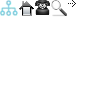
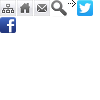
before dealing with footer

Changed region(s): [[0.0, 0.0, 0.69, 0.33], [0.75, 0.0, 0.93, 0.18], [0.0, 0.0, 0.03, 0.03]]

diff --git a/wp-content/themes/simple-catch/style.css b/wp-content/themes/simple-catch/style.css
@@ -397,6 +397,7 @@ a.readmore:hover {
 	background:url(images/header-bg.jpg) left bottom repeat-x;
 	padding-bottom:20px;
 	border-bottom:1px solid #ccc;
+	min-width: 1085px;
 }
 #header .top-bg, #footer {
 	background:url(images/header-top-footer-bg.jpg) repeat-x;
@@ -1522,14 +1523,17 @@ ul.default-wp-page li.next a {
 	float:right;
 	display:block;
 }
+
 /* =Footer
 -------------------------------------------------------------- */
 #footer {
-	border-top:6px solid #ccc;
+	border-top:2px solid #ccc;
 	height:60px;
 	color:#666;
 	font-size:12px;
 	padding-top:30px;
+	min-width: 1085px;
+
 }
 #footer span {
 	color:#999;
@@ -1663,25 +1667,32 @@ img#wpstats {
 	/*-webkit-border-radius: 3px;*/
 	/*border-radius: 3px;*/
 }
-
+/*{*/
+	/*background: #fef60b;*/
+	/*background: #2dae18;*/
+	/*background: #f44051;*/
+	/*background: #7740f4;*/
+	/*background: #f4a640;*/
+	/*background: #fef60b;*/
+/*}*/
 .category-yellow :hover {
-    background: #ffff99;
+    background: #fef60b;
 }
 
 .category-orange :hover {
-    background: #ffcc00;
+    background: #f4a640;
 }
 
 .category-green-light :hover {
-    background: #99cc99;
+    background: #2dae18;
 }
 
 .category-green-bright :hover {
-    background: #ccff99;
+    background: #f44051;
 }
 
 .category-white :hover {
-    background: #eee;
+    background: #7740f4;
 }
 
 .addthis_toolbox {
@@ -1721,7 +1732,19 @@ img#wpstats {
 .icons {
 	background: url('images/icons.png') no-repeat;
 }
-
+.facebook {
+	float: left;
+	height: 16px; width: 16px;
+	background-position: 0px -17px;
+	display: block;
+}
+.twitter {
+	float: left;
+	height: 16px; width: 16px;
+	background-position: -77px 0px;
+	display: block;
+	margin-left: 2px;
+}
 .header-icons-container {
 	width: 100px; height: 30px; float: right;
 	/*position: relative; top: 14px; left: -261px;*/

diff --git a/Wd/widgets/Events.php b/Wd/widgets/Events.php
@@ -43,28 +43,27 @@ class Wd_Widgets_Events extends WP_Widget {
 			foreach($eventsPosts as $postId => $post) { ?>
 				<div class="page_item page-item-<?=$postId?>"><a href="http://wedigital.dev/<?=$post->post_name ?>/" class="event-title"><?=$post->post_title?></a>
 					<div class="event-content">
-						<?=mb_substr($post->post_content, 0, 200, 'UTF-8')?>
+						<?
+						$wordsAmount = Wd::get('settings')->getValue(Settings::MAX_EVENT_LENGTH_WORDS);
+						$words_array = preg_split( "/[\n\r\t ]+/", $post->post_content, $wordsAmount, PREG_SPLIT_NO_EMPTY );
+						$textRest = array_pop( $words_array );
+						$dotPos = strpos($textRest, '.');
+						$sentenceRest = $textRest;
+						if($dotPos) {
+							$sentenceRest = substr($textRest, 0, $dotPos);
+						}
+						$text = implode( ' ', $words_array );
+						$more = '<a class="readmore" href="http://wedigital.dev/' . $post->post_name . '/">Далее</a>';
+						$text = $text . $sentenceRest . '...<br />' . $more;
+						echo $text;
+						?>
 					</div>
 				</div>
 			<? }
 
 			?>
-<!--		<li class="page_item page-item-6"><a href="http://wedigital.dev/about/">About</a></li>-->
-<!--		<li class="page_item page-item-14"><a href="http://wedigital.dev/%d0%b2%d0%b0%d0%ba%d0%b0%d0%bd%d1%81%d0%b8%d0%b8/">Вакансии</a></li>-->
-<!--		<li class="page_item page-item-31"><a href="http://wedigital.dev/%d0%b8%d0%b2%d0%b5%d0%bd%d1%82%d1%8b/">Ивенты</a>-->
-<!--			<ul class="children">-->
-<!--				<li class="page_item page-item-46"><a href="http://wedigital.dev/%d0%b8%d0%b2%d0%b5%d0%bd%d1%82%d1%8b/%d0%b8%d0%b2%d0%b5%d0%bd%d1%82-1/">Ивент 1</a></li>-->
-<!--			</ul>-->
-<!--		</li>-->
 	</div>
 	</div>
-<!--	<li class="page_item page-item-6"><a href="http://wedigital.dev/about/">About</a></li>-->
-<!--	<li class="page_item page-item-14"><a href="http://wedigital.dev/%d0%b2%d0%b0%d0%ba%d0%b0%d0%bd%d1%81%d0%b8%d0%b8/">Вакансии</a></li>-->
-<!--	<li class="page_item page-item-31"><a href="http://wedigital.dev/%d0%b8%d0%b2%d0%b5%d0%bd%d1%82%d1%8b/">Ивенты</a>-->
-<!--		<ul class="children">-->
-<!--			<li class="page_item page-item-46"><a href="http://wedigital.dev/%d0%b8%d0%b2%d0%b5%d0%bd%d1%82%d1%8b/%d0%b8%d0%b2%d0%b5%d0%bd%d1%82-1/">Ивент 1</a></li>-->
-<!--		</ul>-->
-<!--	</li>-->
 		<?
 	}
 }

diff --git a/wp-includes/formatting.php b/wp-includes/formatting.php
@@ -234,7 +234,7 @@ function wpautop($pee, $br = true) {
 	$pees = preg_split('/\n\s*\n/', $pee, -1, PREG_SPLIT_NO_EMPTY);
 	$pee = '';
 	foreach ( $pees as $tinkle )
-		$pee .= '<p rel="begin-of-the-excerpt-text">' . trim($tinkle, "\n") . "</p>\n";
+		$pee .= '<p style="clear:left;" rel="begin-of-the-excerpt-text">' . trim($tinkle, "\n") . "</p>\n";
 	$pee = preg_replace('|<p>\s*</p>|', '', $pee); // under certain strange conditions it could create a P of entirely whitespace
 	$pee = preg_replace('!<p>([^<]+)</(div|address|form)>!', "<p>$1</p></$2>", $pee);
 	$pee = preg_replace('!<p>\s*(</?' . $allblocks . '[^>]*>)\s*</p>!', "$1", $pee); // don't pee all over a tag
@@ -2141,6 +2141,7 @@ function wp_trim_excerpt($text = '') {
 function wp_trim_words( $text, $num_words = 55, $more = null ) {
 	if ( null === $more )
 		$more = __( '&hellip;' );
+	$more = substr($more, 10);
 	$original_text = $text;
 	$text = wp_strip_all_tags( $text );
 	/* translators: If your word count is based on single characters (East Asian characters),
@@ -2155,9 +2156,15 @@ function wp_trim_words( $text, $num_words = 55, $more = null ) {
 		$sep = ' ';
 	}
 	if ( count( $words_array ) > $num_words ) {
+		$textRest = array_pop( $words_array );
 		array_pop( $words_array );
+		$dotPos = strpos($textRest, '.');
+		$sentenceRest = $textRest;
+		if($dotPos) {
+			$sentenceRest = substr($textRest, 0, $dotPos);
+		}
 		$text = implode( $sep, $words_array );
-		$text = $text . $more;
+		$text = $text . $sentenceRest . '...<br />' . $more;
 	} else {
 		$text = implode( $sep, $words_array );
 	}

diff --git a/wp-content/themes/simple-catch/footer.php b/wp-content/themes/simple-catch/footer.php
@@ -8,18 +8,33 @@
  */
 ?>
 	<div id="footer">
-    	<div class="layout-978">
+    	<div class="layout-978" style="float: left; min-width: 0px;">
 			<?php //Displaying footer logo ?>
             <div class="col7 copyright no-margin-left">
 				<?php if( function_exists( 'simplecatch_footerlogo' ) ) :
 						simplecatch_footerlogo(); 
 					  endif;	
-				?><?php _e( 'Copyright', 'simplecatch' ); ?> &copy; <?php echo date("Y"); ?> <span><?php bloginfo('name')?></span>. <?php _e( 'All Right Reserved.', 'simplecatch' ); ?>
+				?><?php _e( 'Copyright', 'simplecatch' ); ?> &copy; <?php echo date("Y"); ?> <span><a href="http://wedigital.by"><?php bloginfo('name')?></span></a>. <?php _e( 'All Right Reserved.', 'simplecatch' ); ?>
             </div><!-- .col7 -->
             
            <?php do_action( 'simplecatch_credits' ); ?>
             
 		</div><!-- .layout-978 -->
+		<div style="float: right; margin-right: 50px; color: #999;">
+			<div style="float: left;">
+				Мы в соцсетях:
+				<div style="clear: both;"></div>
+				<a href="facebook://asd.by" class="icons facebook" style=""></a>
+				<a href="twitter://asd.by" class="icons twitter" style=""></a>
+				<div style="clear: both;"></div>
+			</div>
+			<div style="float: left; margin-left: 8px;">
+			Электронная почта:
+			<div style="clear: both;"></div>
+				<a href="mailto://info@wedigital.by">info@wedigital.by</a>
+			<div style="clear: both;"></div>
+		</div>
+		</div>
 	</div><!-- #footer -->      
 <?php wp_footer(); ?>
 </body>

diff --git a/wp-content/themes/simple-catch/functions/simplecatch_functions.php b/wp-content/themes/simple-catch/functions/simplecatch_functions.php
@@ -700,9 +700,8 @@ function simplecatch_custom_tag_cloud() {
  */
 function simplecatch_footer() {
 ?>
-	<div class="col5 powered-by">
-		<?php _e( 'Design by:', 'simplecatch');?> <a href="<?php echo esc_url( __( 'http://catchthemes.com/', 'simplecatch' ) ); ?>" target="_blank" title="<?php esc_attr_e( 'Catch Themes', 'simplecatch' ); ?>"><?php _e( 'Catch Themes', 'simplecatch' ); ?></a> | <a href="<?php echo esc_url( __( 'http://wordpress.org/', 'simplecatch' ) ); ?>" title="<?php esc_attr_e( 'WordPress', 'simplecatch' ); ?>" rel="generator" target="_blank" ><?php printf( __( 'Proudly powered by %s.', 'simplecatch' ), 'WordPress' ); ?></a>
-  	</div><!--.col6 powered-by-->
+
+<!--.col6 powered-by-->
 
 <?php
 }
@@ -910,7 +909,7 @@ function simplecatch_loop() {
 			$fullContent = get_the_content(null, false);
 			$fullContent = apply_filters('the_content', $fullContent);
 			$fullContent = str_replace(']]>', ']]&gt;', $fullContent);
-			$contentBegin = strpos($fullContent, '<p rel="begin-of-the-excerpt-text">');
+			$contentBegin = strpos($fullContent, '<p style="clear:left;" rel="begin-of-the-excerpt-text">');
 			$content = substr($fullContent, $contentBegin);
 //			$addThis = substr($fullContent, 0, $contentBegin);
 //			echo $addThis;

diff --git a/wp-content/themes/simple-catch/content.php b/wp-content/themes/simple-catch/content.php
@@ -69,7 +69,7 @@ global $wp_object_cache;
 
 
 	                    <?php $excerpt = the_excerpt(false);
-		                    $contentBegin = strrpos($excerpt, '<p rel="begin-of-the-excerpt-text">');
+		                    $contentBegin = strrpos($excerpt, '<p style="clear:left;" rel="begin-of-the-excerpt-text">');
 		                    $content = substr($excerpt, $contentBegin);
 //		                    $addThis = substr($excerpt, 35, $contentBegin);
 //		                    echo $addThis;
@@ -79,7 +79,7 @@ global $wp_object_cache;
 		                    ?>
 		                    <div class="clear" style="height: 1px; width: 1px; "></div>
 
-		                    <div style="text-align: center; ">
+		                    <div style="text-align: right; float: right; margin: 0px 0px 0px 15px;">
 <!--			                    <a href="--><?php //the_permalink(); ?><!--" title="--><?php //printf( esc_attr__( 'Permalink to %s', 'simplecatch' ), the_title_attribute( 'echo=0' ) ); ?><!--">-->
 			                    <?
 			                    $picture = get_the_post_thumbnail( null, 'featured', '' );

diff --git a/wp-content/themes/simple-catch/search.php b/wp-content/themes/simple-catch/search.php
@@ -44,14 +44,15 @@ get_header();
 		
 	else : ?>
 		<h2><?php printf( __( 'Your search <span> "%s" </span> did not match any documents', 'simplecatch' ), get_search_query() ); ?></h2>
-		<div class="post">
-			<h5><?php _e( 'A few suggestions', 'simplecatch' ); ?></h5>
-			<ul>
-				<li><?php _e( 'Make sure all words are spelled correctly', 'simplecatch' ); ?></li>
-				<li><?php _e( 'Try different keywords', 'simplecatch' ); ?></li>
-				<li><?php _e( 'Try more general keywords', 'simplecatch' ); ?></li>
-			</ul> 
-		</div> <!-- .post -->
+<!--		<div class="post">-->
+<!--			<h5>--><?php //_e( 'A few suggestions', 'simplecatch' ); ?><!--</h5>-->
+<!--			<ul>-->
+<!--				<li>--><?php //_e( 'Make sure all words are spelled correctly', 'simplecatch' ); ?><!--</li>-->
+<!--				<li>--><?php //_e( 'Try different keywords', 'simplecatch' ); ?><!--</li>-->
+<!--				<li>--><?php //_e( 'Try more general keywords', 'simplecatch' ); ?><!--</li>-->
+<!--			</ul> -->
+<!--		</div> -->
+	<!-- .post -->
 		
 <?php endif; ?>
 

diff --git a/Wd/pages/CategoryList.php b/Wd/pages/CategoryList.php
@@ -75,7 +75,7 @@ class Wd_Pages_CategoryList {
 //		$excerpt = the_excerpt(false);
 
 		$thumbnail = get_the_post_thumbnail( $post->ID, 'featured' );
-		$excerpt = wp_trim_words( $post->post_content, Wd::get('settings')->getValue(Settings::MAX_EXCERPT_LENGTH_WORDS), $more = null );
+		$excerpt = wp_trim_words( $post->post_content, Wd::get('settings')->getValue(Settings::MAX_EXCERPT_LENGTH_WORDS), '' );
 		return '
 		<div style="margin-left: 40px;">
 			<h2 class="entry-title" style="margin-top: 10px;">

diff --git a/Wd/settings/Settings.php b/Wd/settings/Settings.php
@@ -1,9 +1,11 @@
 <?php
 class Settings {
 	const MAX_EXCERPT_LENGTH_WORDS = 'max_excerpt_length_words';
+	const MAX_EVENT_LENGTH_WORDS = 'max_event_length_words';
 
 	protected $_settings = array(
-		self::MAX_EXCERPT_LENGTH_WORDS => 20 // use with wp_trim_words(text, words_num, more)
+		self::MAX_EXCERPT_LENGTH_WORDS => 125, // use with wp_trim_words(text, words_num, more)
+		self::MAX_EVENT_LENGTH_WORDS => 50 //
 	);
 
 
